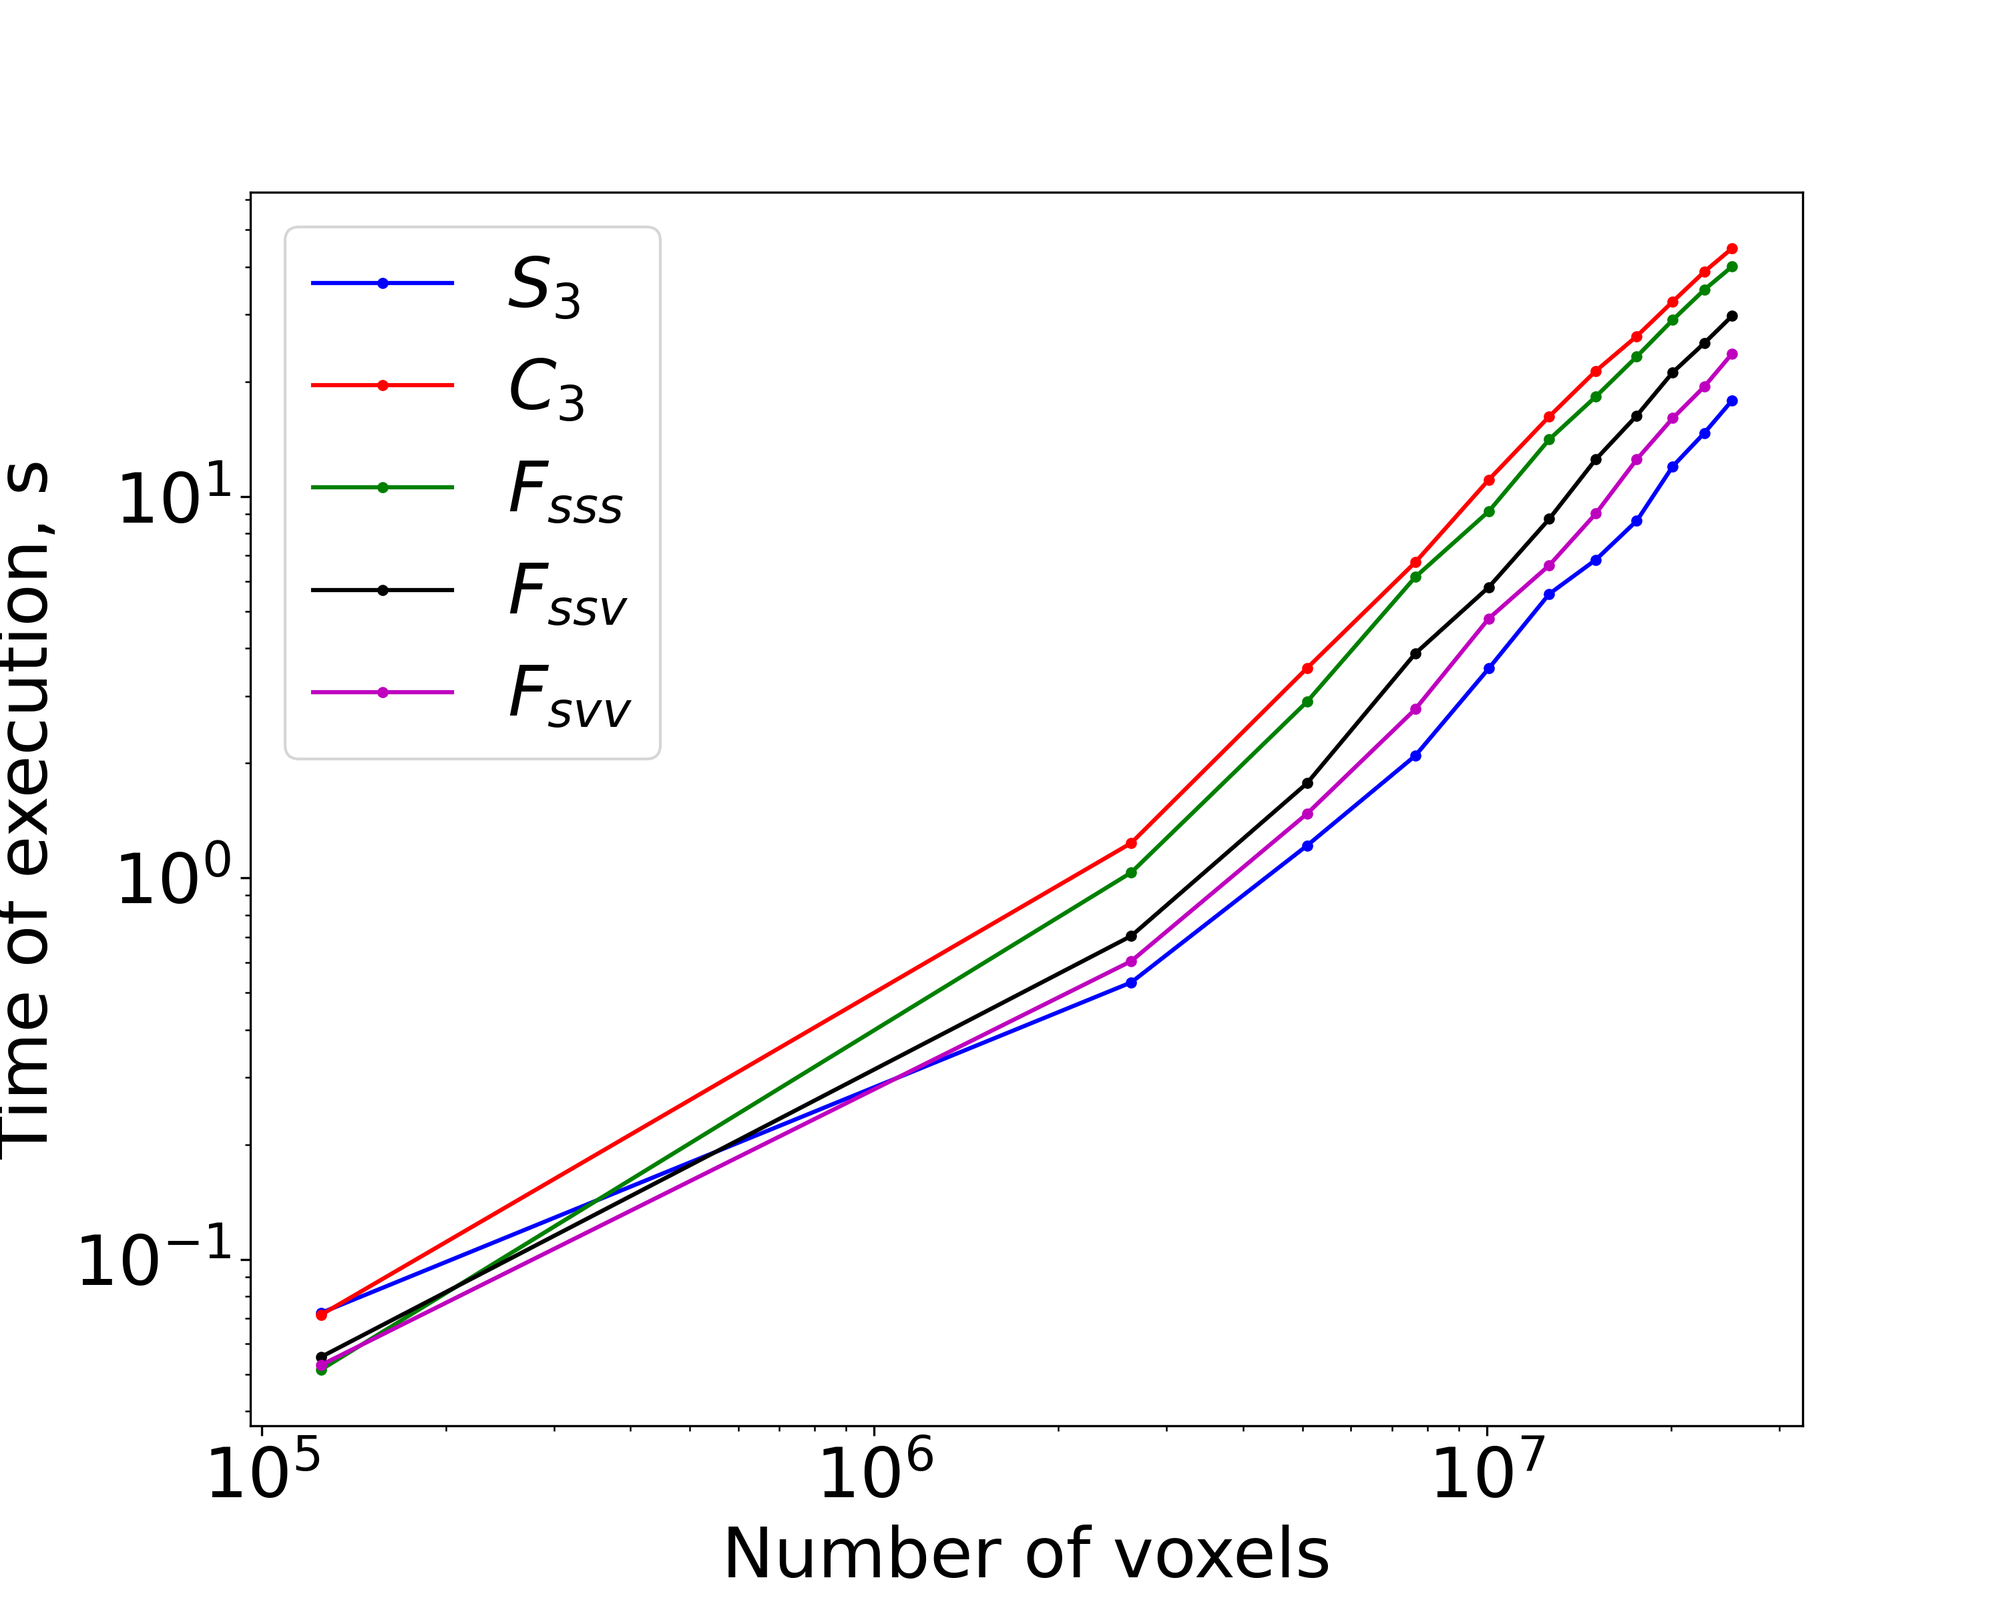
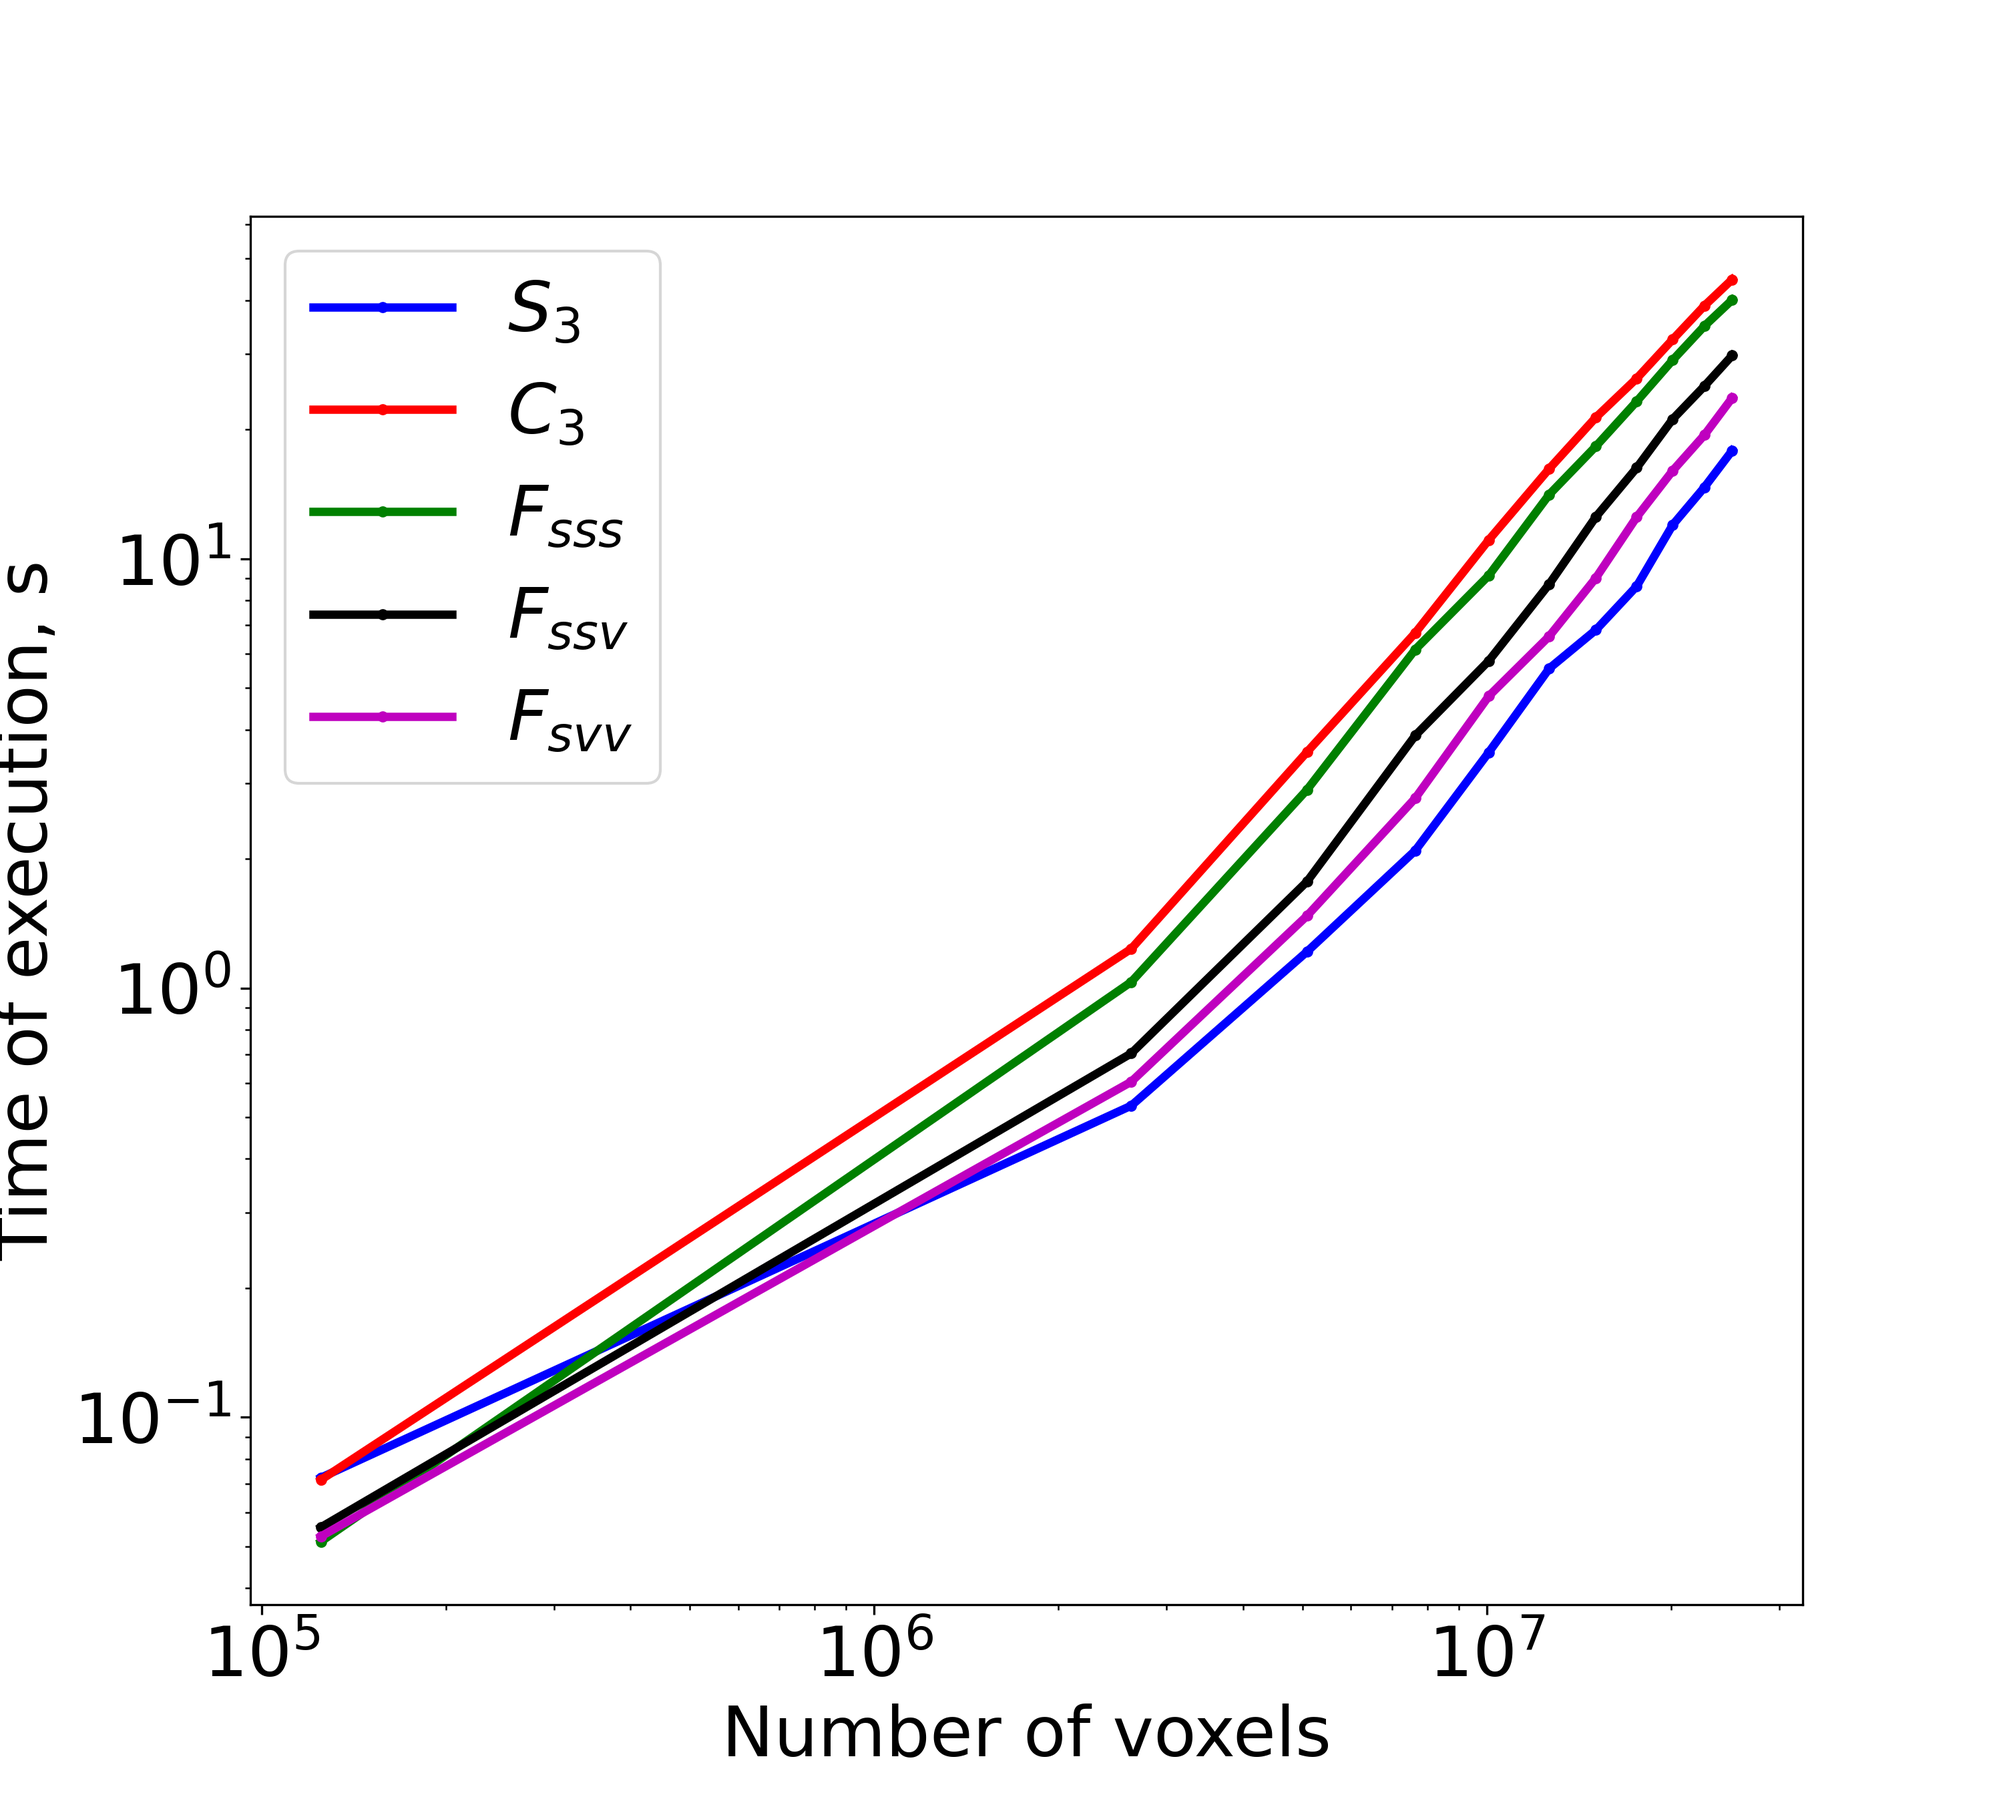
Line thickness (5/N)

diff --git a/timings/timings.py b/timings/timings.py
@@ -7,12 +7,12 @@ legend = ['$S_3$', '$C_3$', '$F_{sss}$', '$F_{ssv}$', '$F_{svv}$']
 names = map(lambda name: name + '.npy', ['s3', 'c3', 'surf3', 'surf2void', 'surfvoid2'])
 colors = ['b', 'r', 'g', 'k', 'm']
 
-plt.figure(figsize = (10, 8), dpi = 300)
+plt.figure(figsize = (10, 9), dpi = 300)
 plt.rc('font', size = 25)
 
 for (name, color) in zip(names, colors):
     data = np.load('gpu/' + name)
-    plt.plot(data[:,0]**3, data[:,1], color + '.-')
+    plt.plot(data[:,0]**3, data[:,1], color + '.-', linewidth = 3)
 
 plt.legend(legend)
 plt.yscale('log')
